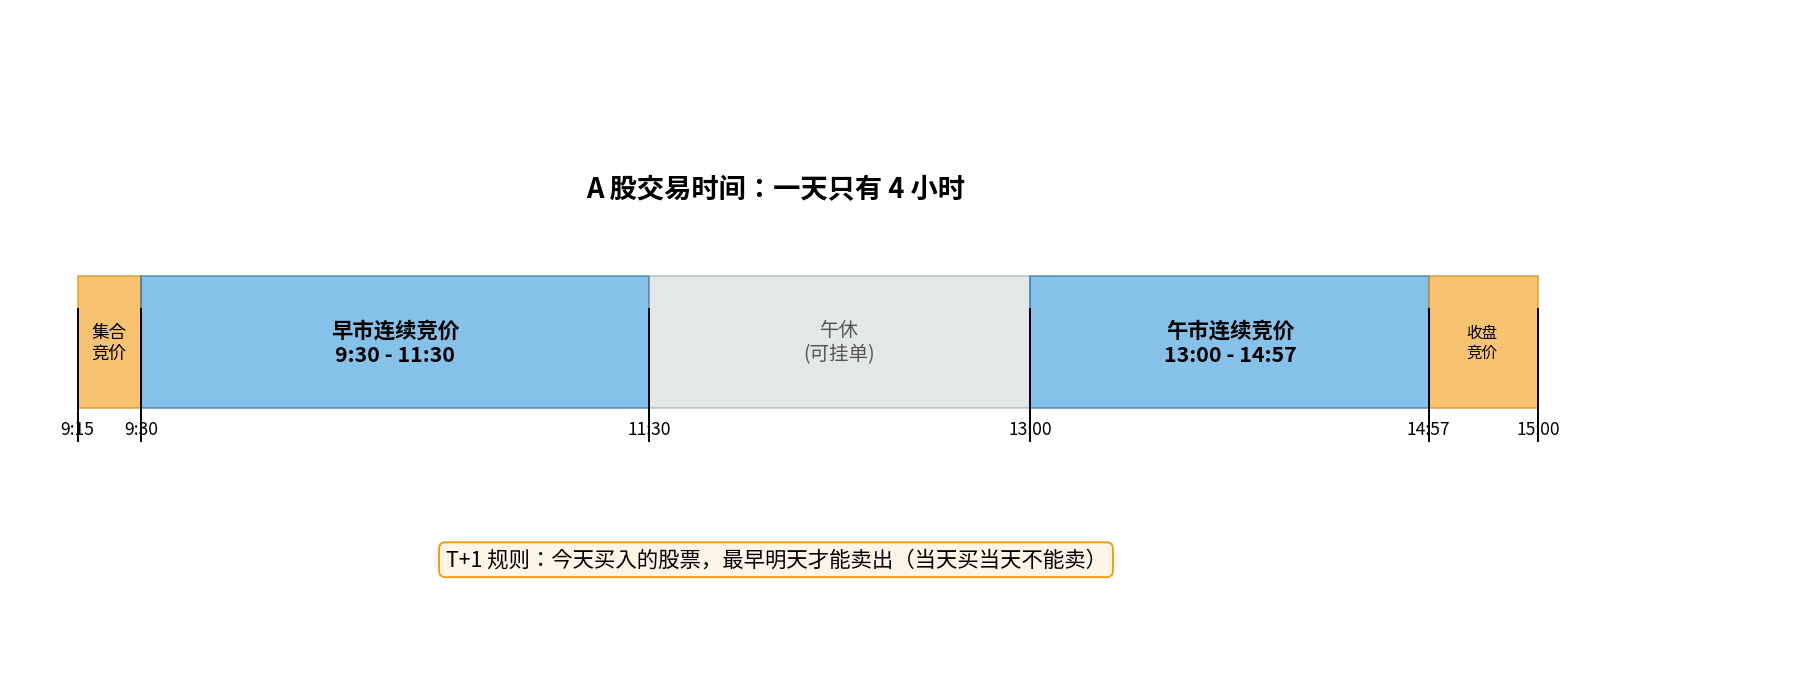
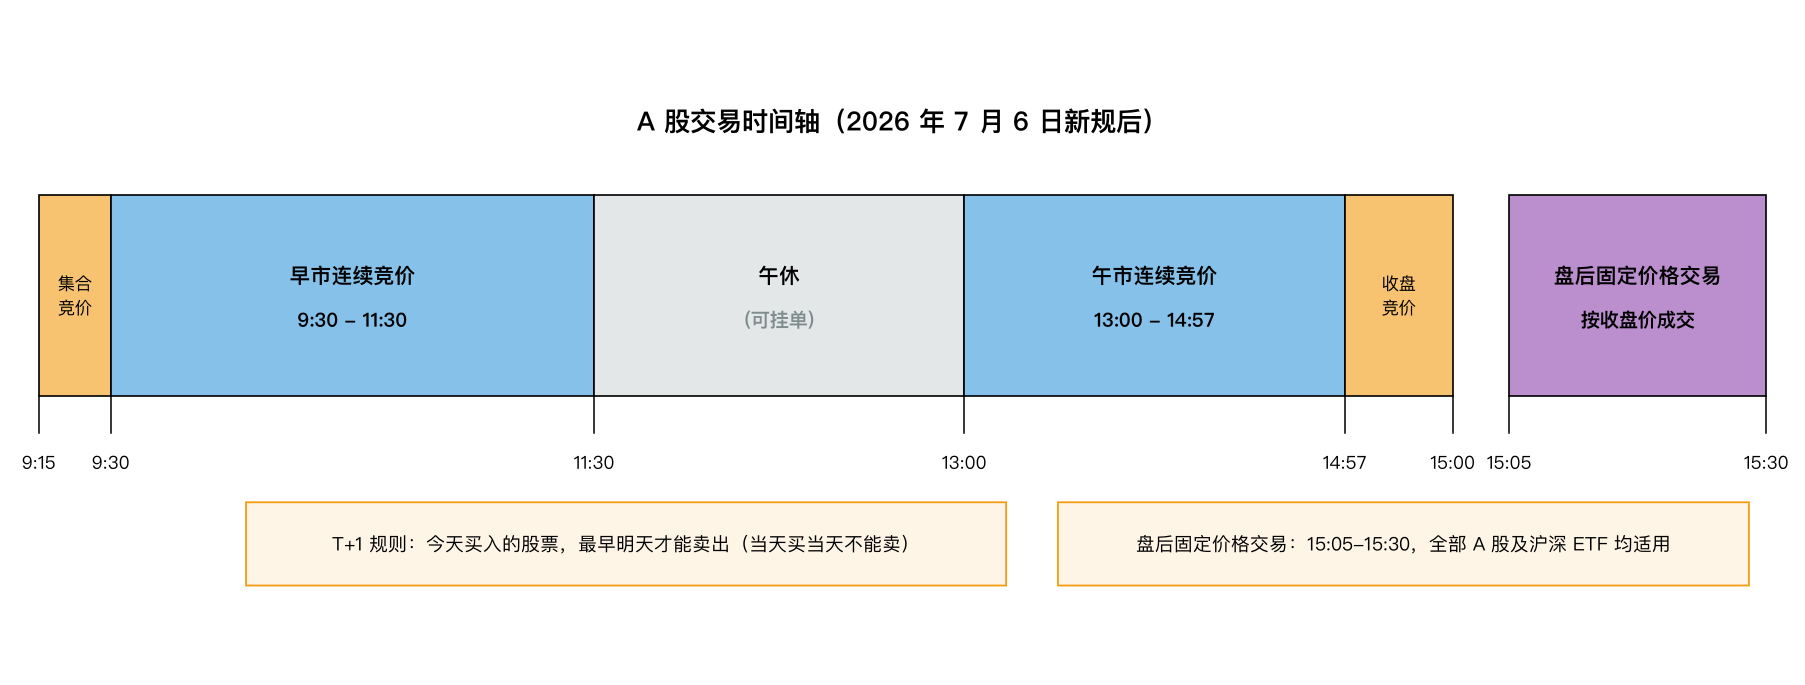
基础知识(一)：同步 A 股交易新规，并扩写技术指标章节
新规同步（2026-07-06 施行）：
- 交易时段补入 15:05-15:30 盘后固定价格交易，适用范围已扩至
  全部 A 股及沪深 ETF；原文"没有盘后交易"的说法已过时
- 主板 ST 股涨跌幅 ±5% → ±10%，并提示回测历史数据需注意该分界
- 重绘交易时间轴配图，风格沿用同篇其余 12 张（色值取自原图，
  新增色经 CVD 与常视觉可辨性校验）

技术指标 3.1~3.4 扩写（结构不变，逐节加厚）：
- 每节补充生活化直觉类比、具体数字演算、图上怎么看、常见误用
- 3.3 拆为 ATR 与布林带两小节，补充跳空对 True Range 的意义、
  海龟仓位公式的完整推演、布林带开口收口
- 修正 RSI 公式写法，说明分母取总天数这一易错点
- 补充正态分布假设不成立、指标不引入新信息等前提说明

diff --git a/src/data/blog/量化交易探索-基础知识(一).md b/src/data/blog/量化交易探索-基础知识(一).md
@@ -52,7 +52,7 @@ description: 面向后端开发者的股票基础知识补课，按"市场认知
 
 ### 1.2 市场怎么撮合：盘口、订单、价差
 
-你在代码里写 `self.buy(price, volume)`，这笔订单到了交易所之后发生了什么？答案藏在**盘口（Order Book）**里：
+你在代码里写 `self.buy(price, volume)`，这笔订单到了交易所之后发生了什么？答案藏在**盘口**（Order Book）里：
 
 ![盘口：等待成交的挂单队列](@/assets/images/posts/quant-basics-1-stock-fundamentals/11_order_book.png)
 
@@ -79,8 +79,11 @@ description: 面向后端开发者的股票基础知识补课，按"市场认知
 - **09:30-11:30** 早市连续竞价
 - **13:00-14:57** 午市连续竞价
 - **14:57-15:00** 收盘集合竞价（决定收盘价）
+- **15:05-15:30** 盘后固定价格交易
 
-没有盘后交易——工具篇里 AKShare 数据的 `postVol`/`postAmt` 列全是 NaN 就是这个原因，那是给美股市场准备的字段。
+**盘后固定价格交易**：2026 年 7 月 6 日起，适用范围由原来的科创板、创业板**扩大到全部 A 股及沪深市场 ETF**。以**当日收盘价**成交（投资者无法自主定价），按时间优先撮合。新股上市首日、退市整理期、当日停牌股票不适用。
+
+注意别和美股的盘前盘后混为一谈：AKShare 里的 `postVol`/`postAmt` 是为美股盘前盘后行情准备的字段，与 A 股这个机制不是一回事——要用 A 股盘后数据，先确认你调的接口是否真的覆盖了它。
 
 **T+1 制度**：今天买入的股票/ETF，**最早明天才能卖**。影响：
 
@@ -88,7 +91,9 @@ description: 面向后端开发者的股票基础知识补课，按"市场认知
 - vnpy 回测引擎**不模拟 T+1**，如果策略出现"当天买当天卖"，回测结果比实盘乐观，需要自己在策略里加约束
 - 例外：期货是 T+0；可转债、部分跨境 ETF 也是 T+0
 
-**涨跌停**：主板 ±10%（ST 股 ±5%）、创业板/科创板 ±20%、北交所 ±30%。涨停买不进、跌停卖不出。**回测引擎默认也不模拟这个**——如果你的策略信号经常出现在涨跌停日，回测会严重高估。
+**涨跌停**：主板 ±10%、创业板/科创板 ±20%、北交所 ±30%。涨停买不进、跌停卖不出。**回测引擎默认也不模拟这个**——如果你的策略信号经常出现在涨跌停日，回测会严重高估。
+
+> ⚠️ **2026 年 7 月 6 日起 ST 股规则有变**：主板 ST/\*ST 股的涨跌幅由 ±5% **上调至 ±10%**，与主板其他股票一致，涉及约 150 只个股。同时，连续三个交易日收盘价涨跌幅偏离值的异常波动披露阈值由 ±12% 调整为 ±20%。用历史数据回测时要注意这个时间分界——2026 年 7 月 6 日之前的 ST 股行情仍受 ±5% 约束。
 
 **最小交易单位**：买入必须是 **100 股（1 手）的整数倍**，卖出可以卖零头。海龟策略代码里 `int(shares/100)*100` 就是在满足这个约束。
 
@@ -162,27 +167,66 @@ AKShare 接口的 `adjust` 参数有三个取值：`""`（不复权）、`"qfq"`
 
 ### 3.1 趋势类：均线家族
 
-均线（MA）是出现频率最高的指标，本质是**低通滤波**——滤掉日间噪声，留下趋势。
+**先说它解决什么问题**。每天的收盘价是一串跳来跳去的数字，今天涨 2%、明天跌 1.5%，光看单日根本判断不出方向。这就像每天早上称体重：单日数字受喝水、进食影响上下浮动一斤很正常，你不会因为今天重了半斤就认定自己胖了——但如果看**最近七天的平均值**在稳步上升，那才是真的在长胖。
+
+均线做的就是这件事：用平均值把"每天的随机波动"抹平，只留下方向。用信号处理的话说，这是一个**低通滤波器**，滤掉高频噪声、保留低频趋势。
 
 `MA(N) = 最近 N 天收盘价的平均`
 
+**手算一遍就懂了**。假设某只 ETF 最近 5 天收盘价是 `10, 11, 12, 11, 13`：
+
+```
+MA5 = (10 + 11 + 12 + 11 + 13) / 5 = 11.4
+```
+
+第六天收盘 15，此时窗口向前滑动一格——去掉最早的 10，加入新的 15：
+
+```
+MA5 = (11 + 12 + 11 + 13 + 15) / 5 = 12.4
+```
+
+均线从 11.4 抬到 12.4，**这个"抬头"才是趋势信号**。注意关键点：均线上不上行，取决于**新进来的价格比被挤出去的价格高还是低**。新价 15 高于被挤出的 10，所以均线上行。理解了这一点，你就知道为什么均线**天然滞后**——它反映的是过去 N 天的平均状态，价格已经涨了好几天，均线才慢慢跟上来。
+
 ![不同周期的移动平均线反映不同层级的趋势](@/assets/images/posts/quant-basics-1-stock-fundamentals/04_moving_average.png)
 
-**常用周期与含义**：MA5（周级别短期波动）、MA20（月级别，最常用）、MA60（季度级别）、MA250（年线，牛熊分界）。
+**周期怎么选**：N 越大越平滑、越滞后。常用的几个周期各自对应一个观察尺度：
 
-**三种算法变体**：
+| 周期 | 对应时间 | 用途 |
+| --- | --- | --- |
+| MA5 | 一周 | 短期情绪，噪声大 |
+| MA20 | 一个月 | 最常用的中期趋势线 |
+| MA60 | 一季度 | 中长期趋势 |
+| MA250 | 一年 | 年线，常被视为牛熊分界 |
 
-- **SMA** 简单平均：所有天权重相等
-- **EMA** 指数平均：`EMA_t = α×P_t + (1-α)×EMA_{t-1}`，越近的价格权重越大，反应更快
-- **WMA** 加权平均：手动指定权重
+为什么是 5/20/60/250 这几个数？因为 A 股一周 5 个交易日、一月约 20 个、一季约 60 个、一年约 250 个。**这些数字没有任何数学上的神圣性**，只是交易日历的自然产物——别把它们当成经过验证的最优参数。
 
-**经典信号**：金叉（短均线上穿长均线，买入）、死叉（下穿，卖出）、多头排列（MA5 > MA20 > MA60）。
+**三种算法变体**，区别只在"怎么给每天分配权重"：
 
-**局限**：金叉死叉在震荡市会**反复打脸**——价格上蹿下跳没趋势，短均线来回穿长均线，每次都是假信号。这正是海龟策略选择"突破"而非"金叉"的原因：创新高是比均线交叉更强的条件。
+- **SMA** 简单平均：N 天权重完全相等。今天的价格和 N 天前的价格一样重要。
+- **EMA** 指数平均：`EMA_t = α×P_t + (1-α)×EMA_{t-1}`，越近的价格权重越大，衰减是指数式的。
+- **WMA** 加权平均：手动指定每天权重。
+
+举个能看出差别的例子：价格连续 20 天横盘在 10 元，第 21 天突然跳到 15 元。SMA20 只会从 10 涨到 10.25（多出来的 5 元被 20 天摊薄），而 EMA20 大约会跳到 10.48——**EMA 对新价格的反应快接近一倍**。代价是它也更容易被单日异常值带偏。趋势策略常用 EMA 求快，滤波去噪常用 SMA 求稳。
+
+**图上怎么看**：
+
+- 均线**方向**比均线数值更重要：向上=多头占优，走平=震荡，向下=空头占优
+- 价格在均线**之上**还是**之下**：站上=强，跌破=弱
+- 多条均线的**排列顺序**：MA5 > MA20 > MA60 叫多头排列，说明各个时间尺度上买方都占优
+
+**经典信号**：金叉（短均线上穿长均线，视为买入）、死叉（短均线下穿长均线，视为卖出）。
+
+**局限，也是最常见的误用**：金叉死叉在震荡市会**反复打脸**。价格上蹿下跳但没有方向时，短均线会来回穿越长均线，每一次都产生信号，每一次都是假的。一个月内出现五六次金叉死叉、每次都在小亏中止损，手续费还照收不误——这种"反复挨刀"是新手用均线策略亏钱的头号原因。
+
+更根本的问题是：**均线交叉只能告诉你"过去两个时间尺度的平均值发生了交叉"，它不包含任何关于"现在是不是趋势市"的信息**。而它偏偏只在趋势市有效。
+
+这正是海龟策略选择"突破"而非"金叉"的原因：`bar.close_price > entry_up`（收盘价创 20 日新高）是比均线交叉**更强的条件**——震荡市里价格来回摆动，很难持续创出新高，天然过滤掉了一部分假信号。
 
 ### 3.2 趋势类进阶：MACD
 
-MACD 是"均线的均线"，衡量趋势的**动能**：
+均线告诉你"在往哪走"，MACD 想回答的是下一个问题：**"走得还有没有劲？"**
+
+用开车打个比方。均线相当于**速度表**——告诉你当前多快。而 MACD 更像**加速度**：车速还是 100 码，但油门已经松了、速度在缓慢下降，这个变化速度表要过一会儿才体现，加速度立刻就知道。趋势也一样：价格还在涨，但涨势的力度可能已经在衰减了。
 
 ```
 DIF  = EMA(12) - EMA(26)      快慢均线的差
@@ -190,39 +234,170 @@ DEA  = EMA(DIF, 9)             DIF 再平滑一次
 MACD = 2 × (DIF - DEA)         柱状图
 ```
 
+**逐行拆开看**：
+
+**第一行 DIF**：快均线减慢均线。为什么这个差值有意义？因为 EMA12 反应快、EMA26 反应慢，价格上涨时快线先动、涨得比慢线多，两者的**差距会拉大**；上涨乏力时，快线先停下来，差距开始收窄。所以 DIF 本质是"快慢两条线的张口大小"，张口越大说明趋势越强。
+
+- DIF > 0：快线在慢线上方，中短期趋势向上
+- DIF 上升：张口在变大，趋势在**增强**
+- DIF 虽然仍 > 0 但开始下降：还在涨，但**劲在减弱**（这就是"加速度"的价值）
+
+**第二行 DEA**：把 DIF 再做一次 9 日 EMA 平滑，得到一条更迟钝的参考线。它的作用就是给 DIF 当"基准"——DIF 比自己的近期平均值高，说明动能正在加速。
+
+**第三行柱状图**：`2 × (DIF - DEA)`，画成红绿柱。柱子变长=动能加速，柱子缩短=动能减速。**注意柱子缩短不等于下跌**——它只是说"还在涨，但涨得没那么猛了"。
+
 ![MACD 指标：短期均线与长期均线的差值](@/assets/images/posts/quant-basics-1-stock-fundamentals/07_macd.png)
 
-**信号**：DIF 上穿 DEA 金叉（买）、下穿死叉（卖）、柱状图由绿转红（趋势可能反转）。
+**图上怎么看**，按重要性从低到高：
 
-**背离——最值得关注的信号**：价格创新高但 MACD 没创新高 = **顶背离**，说明上涨的动能在衰减。很多资深交易员宁信背离不信交叉，因为背离反映的是能量层面的变化，交叉只是价格层面的滞后确认。
+1. **金叉死叉**：DIF 上穿 DEA 为金叉，下穿为死叉。最直观，但也最滞后。
+2. **零轴位置**：DIF 在零轴上方运行 = 处在多头格局；零轴附近反复穿越 = 震荡市，这时候所有 MACD 信号都不可信。
+3. **柱状图的伸缩节奏**：连续几根柱子逐根缩短，往往早于金叉死叉给出预警。
+
+**背离，最值得关注的信号**。价格创出新高，但 MACD 的 DIF 没有同步创新高，这叫**顶背离**：
+
+```
+价格：  高点 A (10.0元)  →  高点 B (10.5元)   ← 价格创新高
+DIF ：  高点 A (0.35)    →  高点 B (0.22)     ← 动能反而变弱
+```
+
+含义很直白：这一波新高是"硬撑"上去的，推动它的力量比上一波小了。很多资深交易员宁信背离不信交叉，因为**背离反映的是能量层面的变化，而交叉只是价格层面的滞后确认**。底背离同理，方向相反。
+
+**常见误用**：
+
+- **在震荡市里用金叉死叉**。和均线一样的毛病，而且 MACD 因为多做了一层平滑，滞后更严重。先判断有没有趋势，再谈用不用 MACD。
+- **把背离当成精确的择时信号**。背离只说明"动能在衰减"，不说明"明天就会跌"。顶背离出现后价格再涨两个月是家常便饭——著名的说法是"顶背离可以出现三次以上"。它适合用来**降低仓位或收紧止损**，不适合用来直接做空。
+- **迷信 12/26/9 这三个参数**。这组数字来自 1970 年代，当时美股一周交易六天，26 约等于一个月、12 约等于半个月。放到今天完全没有特殊性，只是因为所有软件都默认用它，才形成了一定的自我实现效应。
 
 ### 3.3 波动类：ATR 与布林带
 
-**ATR（平均真实波幅）**：衡量"最近平均每天波动多少"。海龟策略用它做两件事——算仓位（波动大就少买）、定止损（入场价 − 2×ATR）。True Range 取三者最大：当日振幅、|最高−昨收|、|最低−昨收|，比单纯的 high−low 更能捕捉跳空。
+前面两类指标都在回答"往哪走、有多大劲"。波动类回答的是另一个维度的问题：**"这条路有多颠簸？"**
 
-**布林带**：均值 ± 2 倍标准差构成的通道，统计上价格 95% 时间应在通道内：
+这个维度极其重要，却最容易被新手忽略。同样是预期赚 5%，一只每天波动 1% 的股票和一只每天波动 8% 的股票，风险完全不是一回事——后者可能在到达目标前就先把你震出局。**仓位该买多少、止损该设多远，全都取决于波动率**，而不是取决于你多看好它。
+
+#### ATR：波动率的尺子
+
+ATR 全称 Average True Range，中文叫平均真实波幅，衡量的就是"最近平均每天波动多少钱"。
+
+**为什么不直接用"最高价 − 最低价"**？因为它会漏掉**跳空**。假设某只股票昨天收在 10.0 元，今天受利好影响直接从 10.8 开盘，全天在 10.8~11.0 之间窄幅整理：
+
+```
+当日振幅  = 11.0 − 10.8 = 0.2 元     ← 看起来"很平静"
+实际波动  = 11.0 − 10.0 = 1.0 元     ← 相对昨收，其实动了 10%
+```
+
+只看日内振幅会得出"今天很平静"的错误结论。所以 True Range 取**三者中的最大值**：
+
+```
+TR = max(
+  当日最高 − 当日最低,      ← 日内振幅
+  |当日最高 − 昨日收盘|,     ← 向上跳空的情况
+  |当日最低 − 昨日收盘|      ← 向下跳空的情况
+)
+```
+
+上面那个例子里，三个值分别是 0.2、1.0、0.8，取最大值 1.0——**跳空被正确捕捉到了**。ATR 就是把 TR 做 N 日平均（通常 N=14 或 20）。
+
+**ATR 的数值怎么读**：ATR 是**绝对金额**，不是百分比。某 ETF 价格 4.00 元、ATR = 0.06，意思是"最近平均每天上下动 6 分钱"，约合 1.5%。所以跨品种比较时必须换算成 `ATR / 价格` 才有可比性——直接比较两只不同价位股票的 ATR 数值是没有意义的。
+
+**海龟策略用它做两件事**，这也是 ATR 最经典的用法：
+
+```python
+risk_cash = 100_000 × 0.02 = 2000 元      # 单笔愿承担的风险
+unit_risk = 2 × ATR = 2 × 0.06 = 0.12 元  # 每份承担的风险
+shares    = 2000 / 0.12 → 约 1600 份       # ① 算仓位
+long_stop = 4.00 − 2 × 0.06 = 3.88 元      # ② 定止损
+```
+
+注意这个设计的精妙之处：**波动越大，ATR 越大，算出来的 shares 越小**。策略自动地在颠簸的路上少装货、在平坦的路上多装货，让**每一笔交易承担的风险金额大致相等**，而不是每一笔买入相同的股数或相同的金额。这是海龟策略最值得借鉴的一点，比它的入场信号重要得多。
+
+#### 布林带：把波动率画成通道
+
+布林带是**均线 ± 2 倍标准差**构成的上下轨。标准差就是统计学里衡量"数据有多分散"的那个量——数据越散，带子越宽。
+
+```
+中轨 = MA20
+上轨 = MA20 + 2 × 标准差
+下轨 = MA20 − 2 × 标准差
+```
+
+为什么是 2 倍？因为正态分布下约 95% 的样本落在均值 ±2 个标准差以内。所以理论上价格有 95% 的时间应该待在通道里，触及边界属于"相对少见"的事件。
+
+> 但要清醒一点：**股价收益率并不服从正态分布**，它的尾部比正态分布厚得多（极端行情出现的频率远高于理论值）。所以"95%"只是个粗略的心理参照，不能当作严格的概率保证——真实市场里价格沿着上轨走十几天不回头是很常见的。
 
 ![布林带：均值 ± 2 倍标准差](@/assets/images/posts/quant-basics-1-stock-fundamentals/08_bollinger.png)
 
-**两种互斥的用法**（注意方向完全相反）：
+**图上最该看的其实是带子的宽窄变化**，而不是价格碰到哪条线：
 
-1. **均值回归**：触上轨=超买卖出，触下轨=超卖买入。适合震荡市。
-2. **突破**：放量突破上轨=强势启动，追入。适合趋势市。
+- **收口**：带子越缩越窄，说明波动率在下降、市场在盘整蓄势。极窄的收口常常是大行情的前兆（波动率有均值回归的倾向，不会永远低下去）。
+- **开口**：带子突然张开，说明波动率骤升，通常伴随方向性突破。
+- **价格贴着上轨持续上行**：这不是"超买该卖"，恰恰是**强趋势的典型形态**。
 
-同一个"价格触及上轨"信号，两种框架下操作完全相反——用哪种取决于你对当前市场状态的判断。这个矛盾引出第四层的核心话题。
+**两种互斥的用法**，注意方向完全相反：
+
+| | 均值回归框架 | 突破框架 |
+| --- | --- | --- |
+| 触及上轨 | 超买，**卖出** | 强势启动，**买入** |
+| 触及下轨 | 超卖，**买入** | 破位，**卖出** |
+| 适用市况 | 震荡市 | 趋势市 |
+
+同一个"价格触及上轨"的信号，两种框架下操作**完全相反**。这不是谁对谁错，而是它们对当前市场状态的假设不同。用哪一种，取决于你判断现在是震荡市还是趋势市——而这个判断本身，恰恰是最难的部分。这个矛盾正是第四层要展开的核心话题。
 
 ### 3.4 动量类：RSI
 
-RSI 衡量"最近涨幅占总波幅的比例"，值域 0-100：
+动量类指标回答第四个问题：**"最近这段时间，买方和卖方谁的力气更大？"**
+
+RSI 的思路非常朴素——把最近 N 天分成上涨日和下跌日两堆，比一比两堆的总幅度谁大。全是上涨日就接近 100，全是下跌日就接近 0，势均力敌就在 50 附近。
 
 ```
-RSI = 100 × 上涨日总涨幅 / (上涨日总涨幅 + 下跌日总跌幅)
+RS  = N 日内平均涨幅 / N 日内平均跌幅
+RSI = 100 − 100 / (1 + RS)
 ```
 
-- RSI > 70：超买，可能回调
-- RSI < 30：超卖，可能反弹
+这个式子等价于下面这个更直观的形式：
 
-**缺陷**：强趋势里 RSI 会长期钉在极值区（连涨 20 天 RSI 一直 >70），单纯按超买卖出会完美错过大行情。所以 RSI 更适合做**辅助过滤**而不是主信号。
+```
+RSI = 100 × 平均涨幅 / (平均涨幅 + 平均跌幅)
+```
+
+**手算一遍**。取 N=6，某只股票这 6 天的日涨跌幅是 `+2%, +1%, −1%, +3%, −0.5%, +1.5%`：
+
+```
+上涨日：+2, +1, +3, +1.5  → 总涨幅 7.5，平均涨幅 7.5/6 = 1.25
+下跌日：−1, −0.5          → 总跌幅 1.5，平均跌幅 1.5/6 = 0.25
+
+RS  = 1.25 / 0.25 = 5
+RSI = 100 − 100/(1+5) = 83.3
+```
+
+83.3 说明这 6 天里买方力量压倒性占优。注意分母用的是 **N**（总天数）而不是下跌日的天数——这是标准算法，很多人手推时会算错这一步。
+
+**常规读法**：
+
+- RSI > 70：超买区，可能回调
+- RSI < 30：超卖区，可能反弹
+- RSI ≈ 50：多空均衡
+
+**但这个"常规读法"恰恰是 RSI 最大的坑**。强趋势里 RSI 会**长期钉在极值区**：连涨 20 天，RSI 可能一直在 75~85 之间徘徊，一次都不回到 70 以下。如果你机械地按"超买就卖"操作，会在行情刚启动时就下车，然后眼睁睁看着它再涨 50%——这是新手用 RSI 亏钱最典型的方式。
+
+原因不难理解：RSI 衡量的是**相对强度**，而不是**绝对高度**。它说的是"最近买方比卖方强得多"，这在强势行情里本来就是常态，是**趋势健康**的表现，不是"太高了要跌"的信号。
+
+**所以更靠谱的用法有两个**：
+
+1. **背离**，而不是绝对值。价格创新高但 RSI 没创新高，说明这一波的推动力弱于上一波——和 MACD 背离是同一个逻辑，只是换了个衡量动能的口径。
+2. **做过滤器，而不是做主信号**。例如趋势策略只在 RSI < 70 时才允许开新仓，避免在最疯狂的位置追进去；或者反过来，只在 RSI > 50 时才接受买入信号，确保顺着中期强弱方向做。
+
+一句话总结这一节：**RSI 适合用来"否决"信号，不适合用来"产生"信号。**
+
+---
+
+四类指标讲完了，可以看出一条清晰的脉络：它们分别回答**方向**（均线）、**动能**（MACD）、**波动**（ATR / 布林带）、**强弱**（RSI）四个不同维度的问题。
+
+但请注意一个贯穿始终的事实：**所有技术指标都是 OHLCV 的数学变换，没有任何一个引入了新信息**。它们只是把同一份价量数据换个角度呈现出来，帮你看清某个侧面。这意味着——
+
+- 堆砌再多指标也不会凭空产生"更多信息"，只会让你更容易找到彼此矛盾的信号
+- 指标之间高度相关（均线、MACD、RSI 都是基于收盘价的变换），叠加使用时的"相互印证"往往是幻觉
+- 真正决定策略成败的，不是你用了哪个指标，而是**你怎么处理它必然会出错的那些时候**——也就是仓位管理和风险控制
 
 ## 第四层：怎么形成策略——两大流派
 